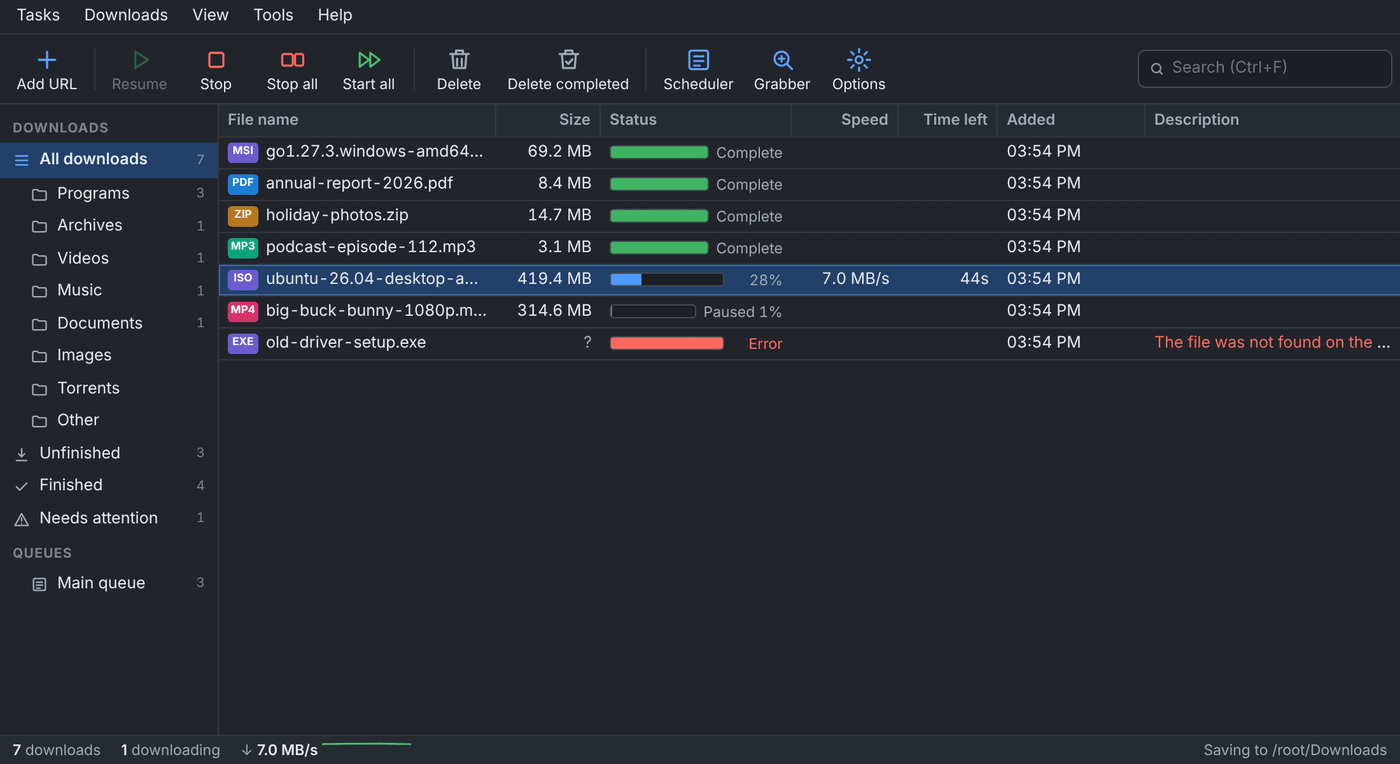
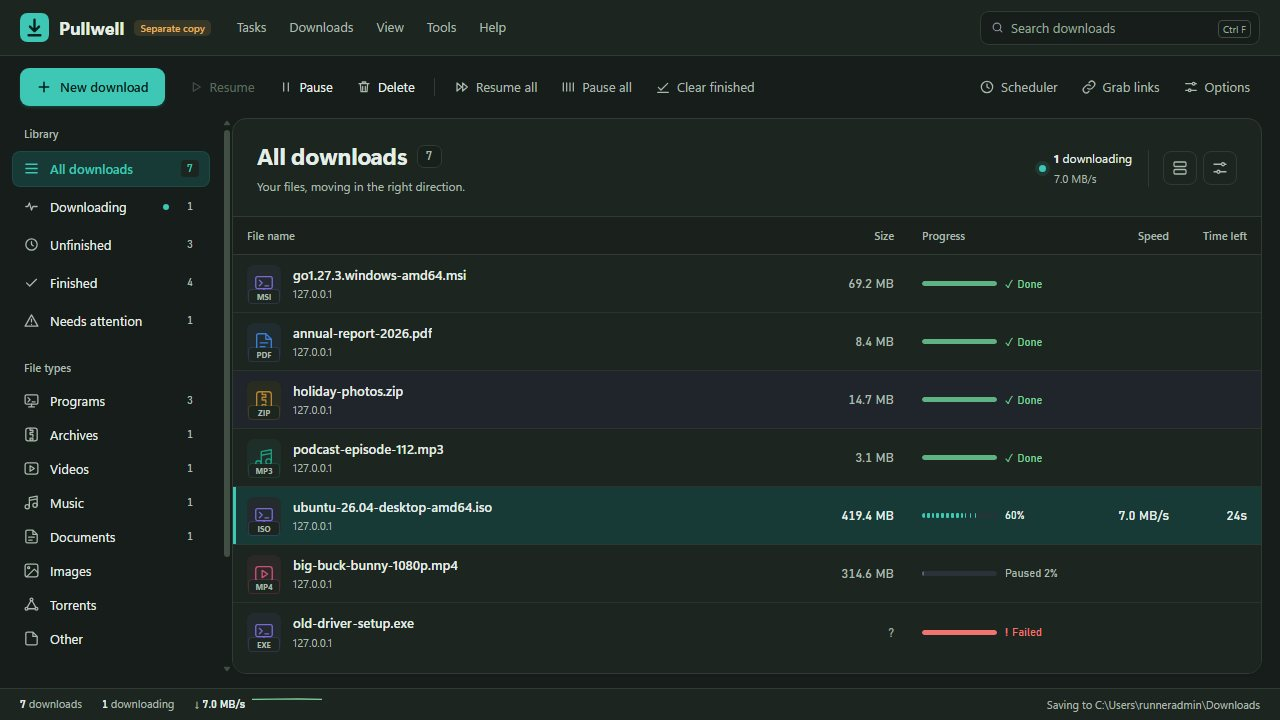
docs: current screenshots of the real Windows window (0.10.0) in the README
Claude-Session: https://claude.ai/code/session_01L77RmcKVedv5stkJdweSQV

diff --git a/README.md b/README.md
@@ -2,7 +2,7 @@
 
 A fast, reliable download manager for Windows 10 and 11, with a browser extension and no telemetry.
 
-![Pullwell's main window: navigation, live transfers and the list of downloads](docs/superpowers/evidence/2026-11-12/desktop-light.png)
+![Pullwell's main window: navigation, live transfers and the list of downloads](docs/screenshots/main-light.png)
 
 > **Status: first public versions, in daily use.** "Pullwell" is a working name and may change after a trademark
 > check.
@@ -59,8 +59,8 @@ downloads the file itself.
 
 | | |
 | --- | --- |
-| ![Progress of one download](docs/superpowers/evidence/2026-11-12/progress-light.png) | ![Separate progress window](docs/superpowers/evidence/2026-11-12/popout-light.png) |
-| ![Options](docs/superpowers/evidence/2026-11-12/options-light.png) | ![Dark mode](docs/superpowers/evidence/2026-11-12/desktop-dark.png) |
+| ![Progress of one download](docs/screenshots/progress.png) | ![Separate progress window](docs/superpowers/evidence/2026-11-12/popout-light.png) |
+| ![Options](docs/screenshots/options.png) | ![Dark mode](docs/screenshots/main-dark.png) |
 
 The previews use sample downloads and local test files from `scripts/dmtest/fixtures.py`.
 
